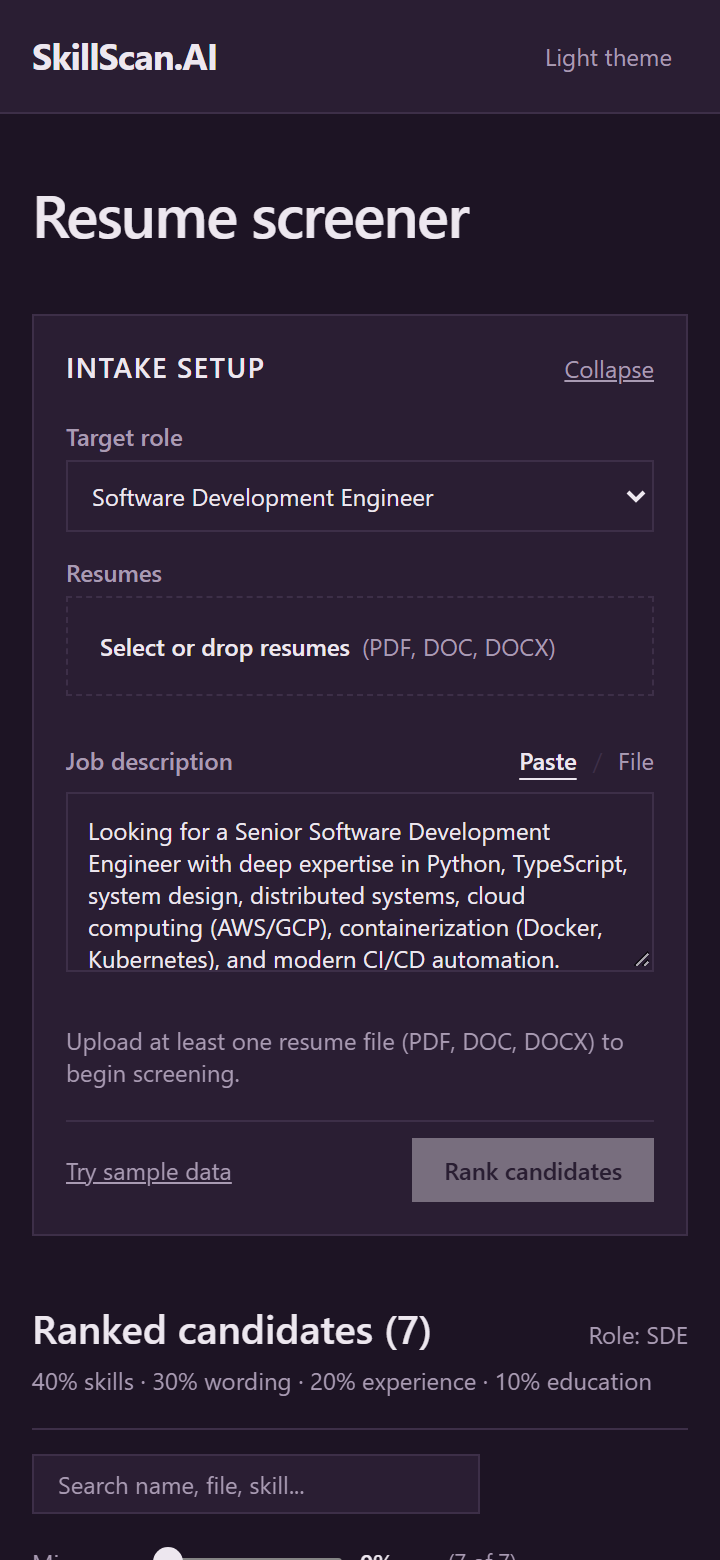
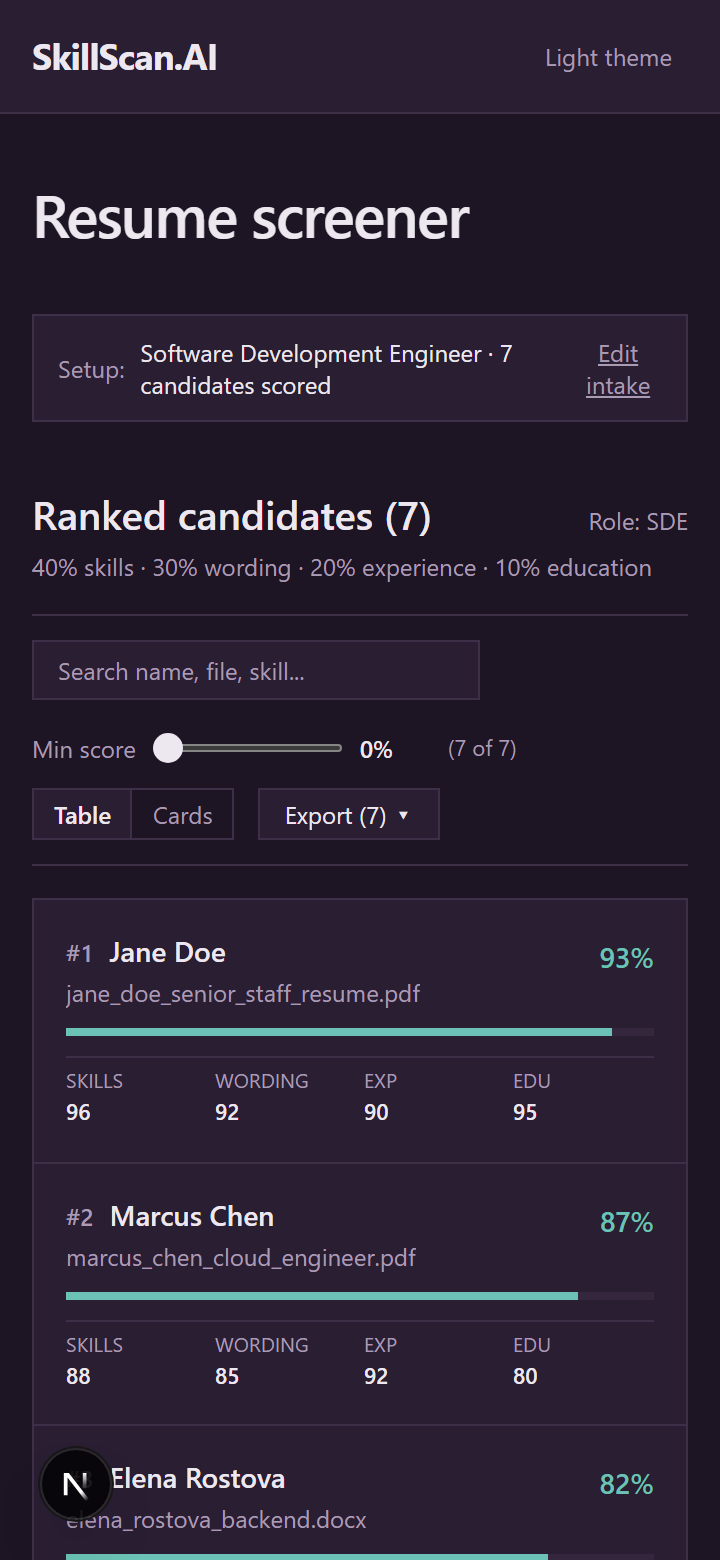
fix(form): auto-collapse intake setup to one-line summary after analysis

diff --git a/frontend/src/components/AnalysisForm.tsx b/frontend/src/components/AnalysisForm.tsx
@@ -51,25 +51,26 @@ export default function AnalysisForm({
   hasResults,
   onRejectedFiles,
 }: AnalysisFormProps) {
-  // Collapses to a one-line summary after analysis
-  const [collapsed, setCollapsed] = useState(hasResults);
+  // Automatically collapses to a one-line summary after analysis
+  const [manuallyExpanded, setManuallyExpanded] = useState(false);
+  const isCollapsed = hasResults && !manuallyExpanded;
 
   const selectedRoleLabel =
     JOB_ROLES.find((r) => r.value === jobRole)?.label || jobRole;
 
   // If results exist and collapsed, show quiet one-line summary
-  if (hasResults && collapsed) {
+  if (isCollapsed) {
     return (
       <div className="py-2.5 px-3 border border-[var(--line)] bg-[var(--surface)] text-xs flex items-center justify-between">
         <div className="flex items-center gap-2 text-[var(--ink)]">
           <span className="text-[var(--ink-soft)]">Setup:</span>
           <span>
-            {selectedRoleLabel} · {managedFiles.length > 0 ? `${managedFiles.length} resumes staged` : "Active cohort"}
+            {selectedRoleLabel} · {managedFiles.length > 0 ? `${managedFiles.length} resumes staged` : "7 candidates scored"}
           </span>
         </div>
         <button
           type="button"
-          onClick={() => setCollapsed(false)}
+          onClick={() => setManuallyExpanded(true)}
           className="text-xs text-[var(--ink-soft)] hover:text-[var(--ink)] underline cursor-pointer"
         >
           Edit intake
@@ -87,7 +88,7 @@ export default function AnalysisForm({
         {hasResults && (
           <button
             type="button"
-            onClick={() => setCollapsed(true)}
+            onClick={() => setManuallyExpanded(false)}
             className="text-xs text-[var(--ink-soft)] hover:text-[var(--ink)] underline cursor-pointer"
           >
             Collapse
